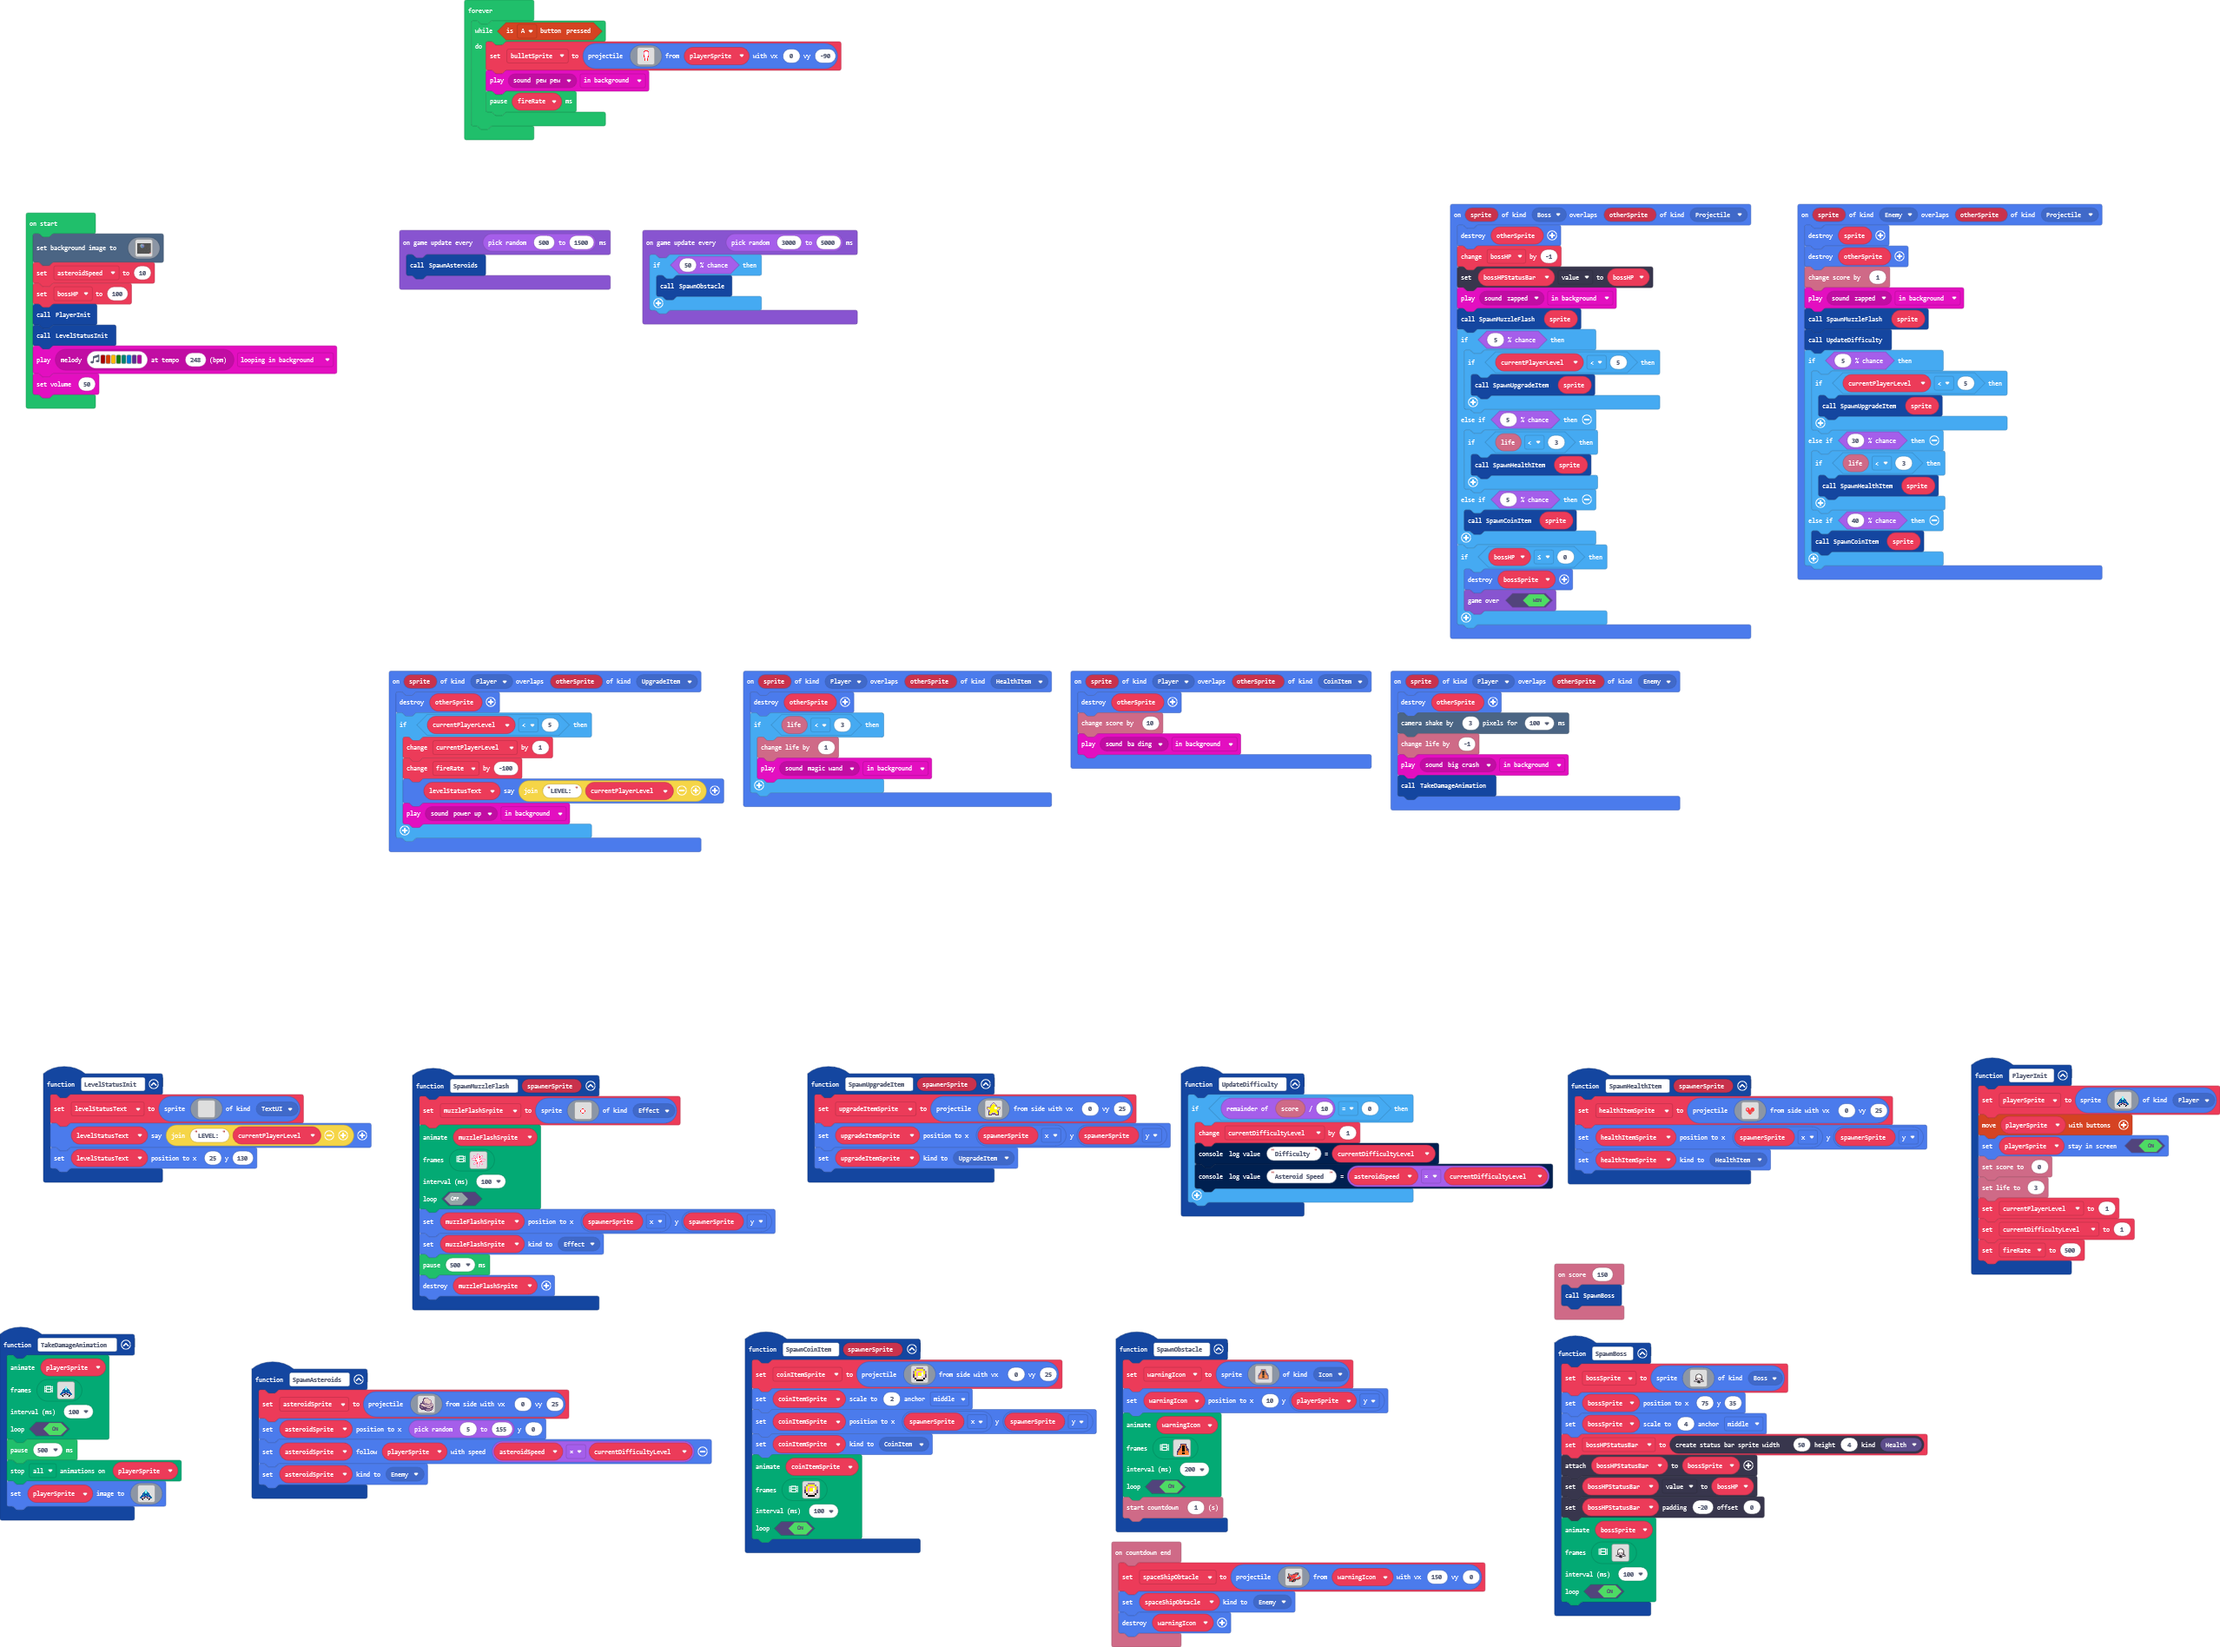
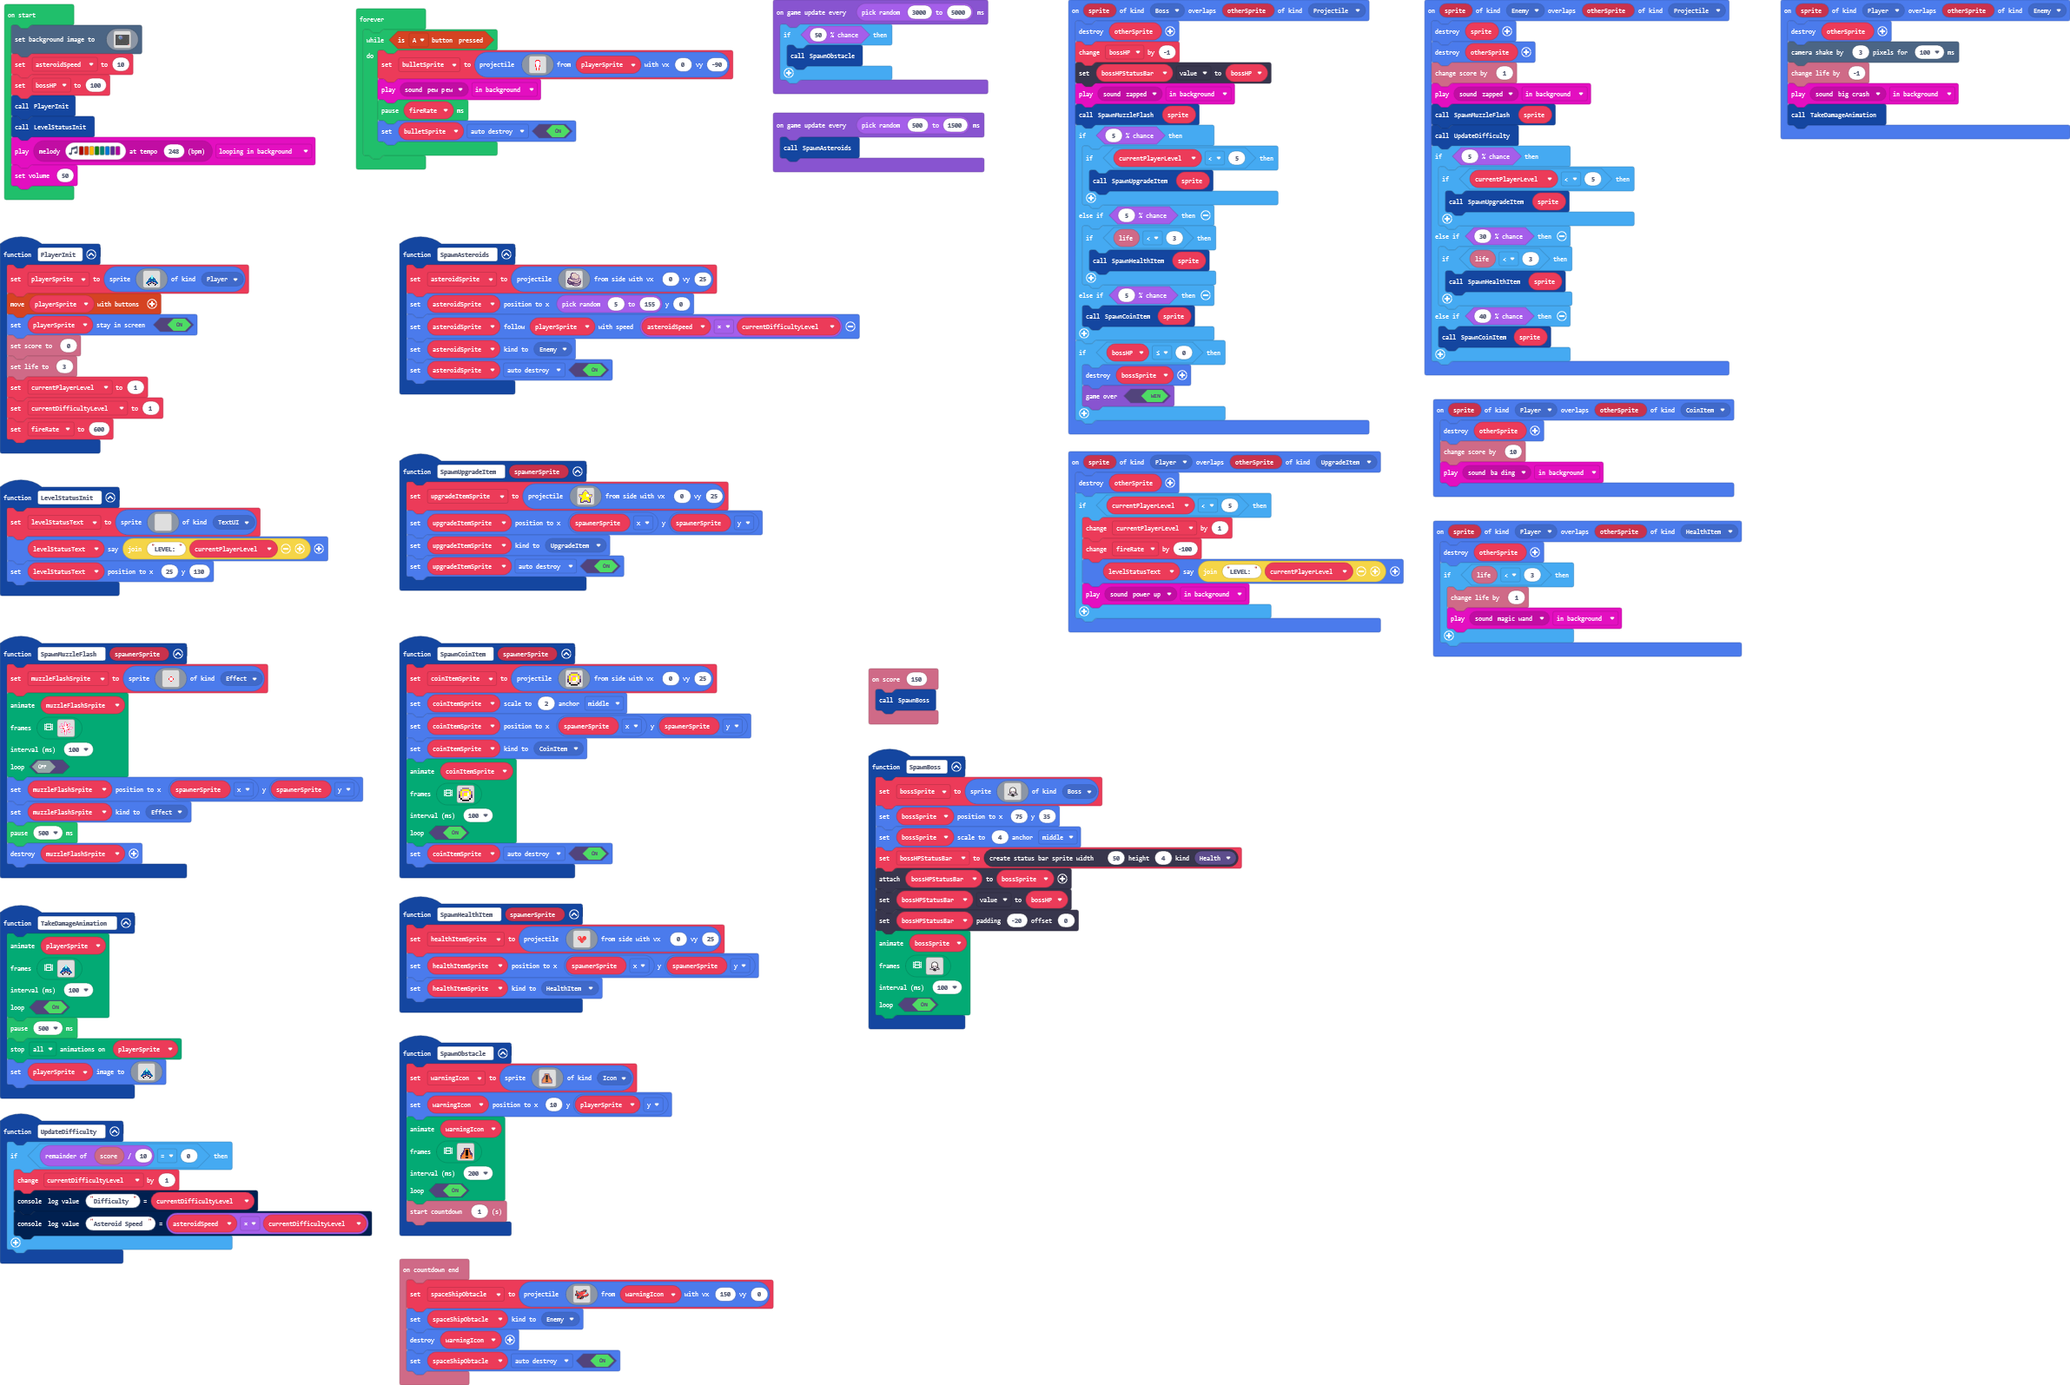
Set auto destroy

diff --git a/main.ts b/main.ts
@@ -115,6 +115,7 @@ function SpawnCoinItem (spawnerSprite: Sprite) {
     100,
     true
     )
+    coinItemSprite.setFlag(SpriteFlag.AutoDestroy, true)
 }
 function SpawnUpgradeItem (spawnerSprite: Sprite) {
     upgradeItemSprite = sprites.createProjectileFromSide(img`
@@ -137,6 +138,7 @@ function SpawnUpgradeItem (spawnerSprite: Sprite) {
         `, 0, 25)
     upgradeItemSprite.setPosition(spawnerSprite.x, spawnerSprite.y)
     upgradeItemSprite.setKind(SpriteKind.UpgradeItem)
+    upgradeItemSprite.setFlag(SpriteFlag.AutoDestroy, true)
 }
 function SpawnBoss () {
     bossSprite = sprites.create(assets.image`Boss`, SpriteKind.Boss)
@@ -380,6 +382,7 @@ function SpawnAsteroids () {
     asteroidSprite.setPosition(randint(5, 155), 0)
     asteroidSprite.follow(playerSprite, asteroidSpeed * currentDifficultyLevel)
     asteroidSprite.setKind(SpriteKind.Enemy)
+    asteroidSprite.setFlag(SpriteFlag.AutoDestroy, true)
 }
 sprites.onOverlap(SpriteKind.Enemy, SpriteKind.Projectile, function (sprite, otherSprite) {
     sprites.destroy(sprite)
@@ -408,7 +411,7 @@ function PlayerInit () {
     info.setLife(3)
     currentPlayerLevel = 1
     currentDifficultyLevel = 1
-    fireRate = 500
+    fireRate = 600
 }
 info.onCountdownEnd(function () {
     spaceShipObtacle = sprites.createProjectileFromSprite(img`
@@ -431,6 +434,7 @@ info.onCountdownEnd(function () {
         `, warningIcon, 150, 0)
     spaceShipObtacle.setKind(SpriteKind.Enemy)
     sprites.destroy(warningIcon)
+    spaceShipObtacle.setFlag(SpriteFlag.AutoDestroy, true)
 })
 function TakeDamageAnimation () {
     animation.runImageAnimation(
@@ -765,5 +769,6 @@ forever(function () {
             `, playerSprite, 0, -90)
         music.play(music.melodyPlayable(music.pewPew), music.PlaybackMode.InBackground)
         pause(fireRate)
+        bulletSprite.setFlag(SpriteFlag.AutoDestroy, true)
     }
 })
